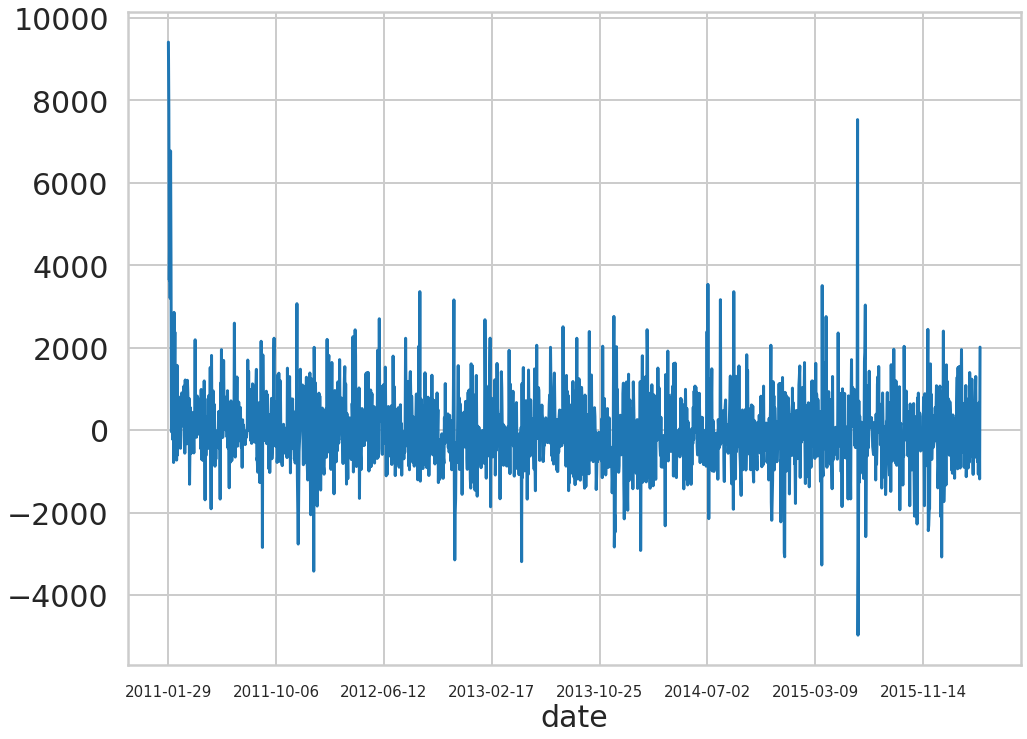
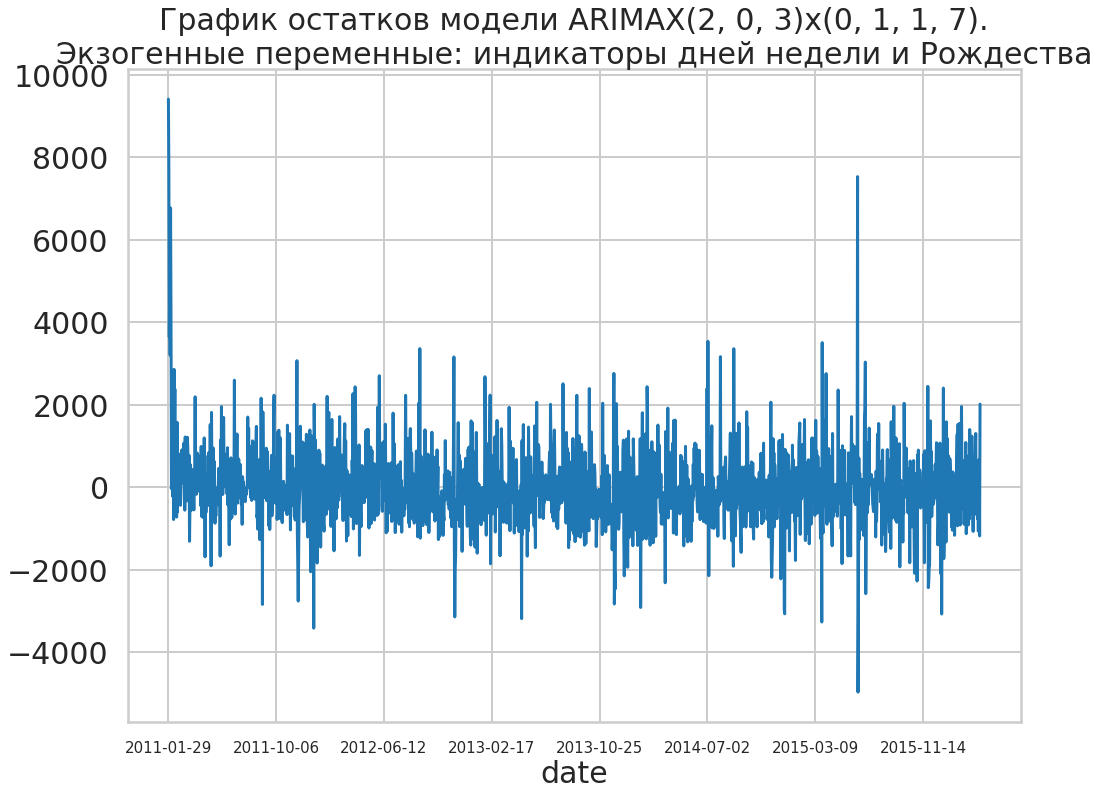
diploma little more water

diff --git a/chapters/thesis-template-chapter4.tex b/chapters/thesis-template-chapter4.tex
@@ -147,14 +147,6 @@ $ p = 2, d = 0, q = 3, P = 0, D = 1, Q = 1, S = 7 $.
 годичная сезонность и выбросы. Выбросы -~ предсказать возможно, если
 добавить экзогенные параметры в виде индикатора праздников.
 
-\def\figurename{Рис}
-\begin{figure}[t]
-	\centering
-	\includegraphics[width=0.5\columnwidth]{./img/arimax_resid.png}
-	\caption{График остатков модели ARIMAX(2, 0, 3)x(0, 1, 1, 7)}
-	\label{img:arimax_resid}
-\end{figure}
-
 В качестве экзогенных параметров рассмотрим индикатор дня недели.
 В исходные данные добавится 7 колонок. Каждому дню недели
 будет соответствовать одна колонка. И еще одним экзогенным параметром
@@ -164,16 +156,17 @@ $ p = 2, d = 0, q = 3, P = 0, D = 1, Q = 1, S = 7 $.
 и индикатор Рождества.
 Оптимизация параметров модели с 8 экзогенными переменными потребовало 20 секунд.
 
-На графике остатков модели с экзогенными переменными \ref{img:arimax_resid_with_xmas} видно, что удалось избавиться
+На графике остатков модели с экзогенными переменными \ref{img:arimax_resid} видно, что удалось избавиться
 от большого значения остатков на Рождество. Это получилось сделать благодаря
 столбцу-индикатору Рождественских праздников.
 
 \def\figurename{Рис}
 \begin{figure}[t]
 	\centering
+	\includegraphics[width=0.5\columnwidth]{./img/arimax_resid.png}
 	\includegraphics[width=0.5\columnwidth]{./img/arimax_resid_with_xmas.png}
-	\caption{График остатков модели ARIMAX(2, 0, 3)x(0, 1, 1, 7). Экзогенные переменные: индикаторы дней недели и Рождества}
-	\label{img:arimax_resid_with_xmas}
+	\caption{График остатков модели ARIMAX с соответствующими параметрами}
+	\label{img:arimax_resid}
 \end{figure}
 
 Но если проанализировать значения коэффициентов обученной модели \ref{tbl:arimax_coeffs_exogen},
@@ -182,7 +175,13 @@ $ p = 2, d = 0, q = 3, P = 0, D = 1, Q = 1, S = 7 $.
 значение больше критического равно единице, дисперсия большая. Из этого можно сделать вывод,
 что использование этих экзогенных переменных неоправданно. Но зато значение коэффициента
 для индикатора Рождества ($ xmas $) большое. Этот экзогенный параметр
-действительно объясняет какую-то полезную часть данных.
+действительно объясняет некоторую полезную часть данных. Так, значение теста Харке-Бера
+для предыдущей модели было равно $ 37658.88 $, а после выявления зависимости между количеством продаж
+и днем рождества стало равно $ 1488.02 $. Чем ближе значение этого теста к нулю, тем больше остатки
+модели похожи на нормальное распределение. Этот тест сверяет асимметрию и эксцесс остатков с
+значениями этих моментов для нормального распределения. И хотя с таким абсолютным значением
+теста нельзя говорить о том, что остатки распределены нормально, но относительно предыдущей
+модели, новая модель определенно лучше.
 
 \begin{table}%
 	\caption{Значения коэффициентов параметров ARIMAX(2, 0, 3)x(0, 1, 1, 7) с экзогенными переменными: индикатор дня недели и индикатор Рождества}\label{tbl:cmp-1}
@@ -214,6 +213,8 @@ $ p = 2, d = 0, q = 3, P = 0, D = 1, Q = 1, S = 7 $.
 
 
 \section{Построение модели LSTM}
+
+
 
 \section{Построение модели FCM}
 
